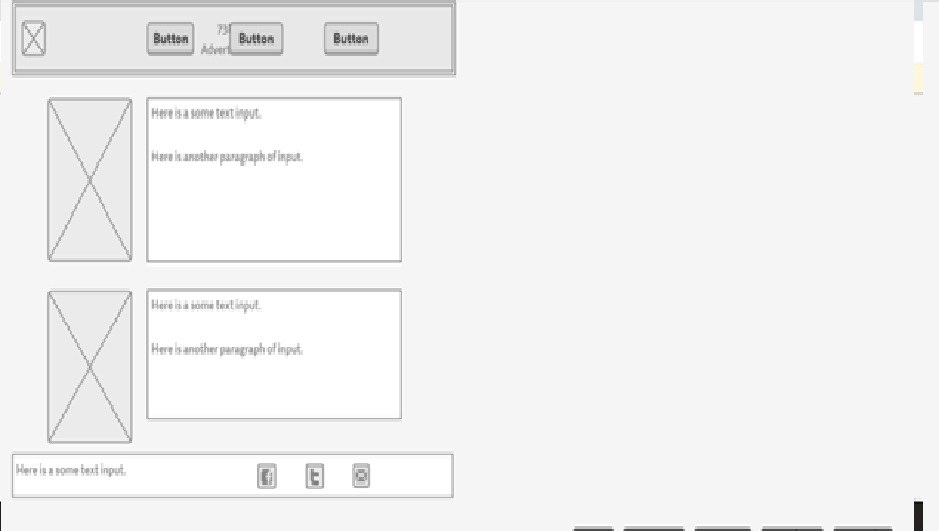
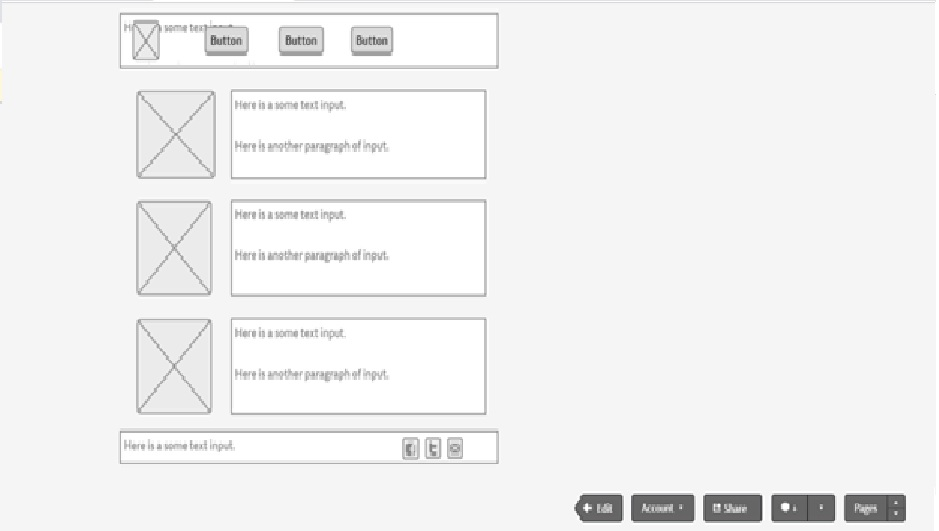
changes to site plan html

diff --git a/site-plan.html b/site-plan.html
@@ -128,7 +128,13 @@
       <h2>
         Content
       </h2>
-      <h3>Plumbing Repairs Are Simple Repairs</h3>
+      <h2>Plumbing Repairs Are Simple Repairs</h2>
+
+      <h3>Sample images for the Home page</h3>    
+      <img class="imageOne" src="images/plumbing-leaky-faucets.jpg" />
+      <img class="imageTwo" src="images/waterheater-cutaway.jpg" /> 
+
+      <h3>Home Page Sample Paragraph</h3>        
       <p>
         Too often we shy away from simple and straight-forward plumbing repairs because of past bad experiences, or terrible advice from the "expert" at the local hardware store.
         We are quick to opt out choosing to pay the extremely high plumber repair price for a job that took less than a half hour to complete.
@@ -141,16 +147,14 @@
         a thousand dollars ($1000) they are a huge expense, but with periodic maintenance and learning some tricks that heater can last many years beyond its warranty. 
         On page three (3) I will share some simple tips how to help that heater last. 
       </p>
-      <p>Images for the Home page</p>        
-        
-
+      <h2>Faucet Repair</h2>   
+            
+      <h3>Sample images for page 2</h3>
+      <img src="images/faucet-components.jpg" alt="faucet view">       
+      <img src="images/all-parts.jpg" alt="cartridges">
+      <img src="images/working-faucet.jpg" alt="good faucet">
       
-      <h3>Faucet Repair</h3>    
-        
-        
-      <p>Images for Home page</p>
-        <img src="images/dripping-faucet.jpg" alt="dripping faucet">       
-        
+      <h3>Page 2 Sample Paragraph</h3>
       <p> Anyone can repair a faucet. There are Just a couple of must do's to
         make the repair go much easier. Before getting started know what brand
         faucet you have. If you don't know then take lots of pictures to use
@@ -174,9 +178,14 @@
         pliers and while using a wiggling motion pull until it come out. Take
         the cartridge with you to purchase a replacement. There are some that
         look similar BUT will not interchange.</p>
-
+        
+        <h2>Water Heater Maintenance</h2> 
+        
+        <h3>Sample images for Page 3</h3>
         <img src="images/heater-sediment.jpg" alt="sediment buildup">
-      <p>
+        <img class="image002" src="images/anode-rod.jpg" />
+        <h3> Page 3 Sample Paragraph</h3>
+          <p>
         There aren't a lot of parts that can be maintained on a water heater,
         but the few that can be are vital to the health of your waterheater.
         Did you know that water is the number one culprit that damages a water
@@ -207,7 +216,6 @@
         different setting on a control valve, Hot, Hotter and Very Hot. dial
         it between the Hot and Hotter settings.
       </p>
-      <p>Images for Page 3</p>
        
 
       </ul>
@@ -222,6 +230,7 @@
       <p>         
         photos, tricks and tips shown and explained on why water heater maintenance is vital to the heaters performance.
       </p>
+      <h3>Home wireframe</h3>
       <img src="images/home-pg-wireframe.jpg" alt="home page wireframe">
 
       <h3>Faucet Repair</h3>
@@ -239,15 +248,16 @@
         following paragraph explains why changing out anode rods is good practice.     
         
       </p>
-      <img src="images/all-parts.jpg" alt="page 3 wireframe">
       <h3>Page 3 Wireframe</h3>
 
-    <img src="images/pg3-wireframe.jpg"/>
+    <img src="images/pg3-wireframe.jpg" alt="page 3 wireframe">
     </main>
     <footer>
-      <h3>Plumb'd Crazy & copy- 2022</h3>
+      <h3>Plumb'd Crazy & copy - 2022  Timothy Lee</h3>
+      
+      </nav>
       <h3><a href="site-plan.html">Site Plan</a></h3>
-      <h3><a href="contact_us.html">Contact us</a></h3>
+     
       <div class="social">
         <a href="https://facebook.com" target="_blank">
           <img src="images/facebook.png" alt="fb icon" />

diff --git a/page3.html b/page3.html
@@ -87,21 +87,22 @@
             only needs to be changed out every three to five years. I would
             check it every year. Chances are that after one year the rod will
             need to be replaced. and $30 anode rod is much cheaper to buy and
-            replace then a $900 waterheater. To replace the Anode rod, you will
-            first need to locate it. Many screw in from the top some from the
-            sides and some brands have them build into the water inlet.loof for
-            a pentagon nut that is the anode rod. The heater will need to be
-            shut off and drained about a quarter of the way. then the rod will
-            unscrew. keep in mind that they are usually 2 feet to 4 feet in
+            replace than a $900 waterheater. To replace the Anode rod, you will
+            first need to locate it. Many screw in from the top, some from the
+            sides, and some brands have them build into the cold water inlet. L
+            ook for a pentagon nut that is the anode rod. The heater will need
+            to be shut off and drained about a quarter of the way. then the rod
+            will unscrew. keep in mind that they are usually 2 feet to 4 feet in
             length. So be sure to have clearance room.
           </p>
         </div>
       </section>
     </section>
     <footer>
-      <h3>Plumb'd Crazy & copy- 2022</h3>
-      <h3><a href="site-plan.html">Site Plan</a></h3>
-      <h3><a href="contact_us.html">Contact us</a></h3>
+      <h3>Plumb'd Crazy & copy - 2022 Timothy Lee</h3>
+      <nav>
+        <a href="site-plan.html">Site Plan</a>
+      </nav>
       <div class="social">
         <a href="https://facebook.com" target="_blank">
           <img src="images/facebook.png" alt="fb icon" />

diff --git a/index.html b/index.html
@@ -55,9 +55,11 @@
       </section>
     </section>
     <footer>
-      <h3>Plumb'd Crazy & copy- 2022</h3>
-      <h3><a href="site-plan.html">Site Plan</a></h3>
-      <h3><a href="contact_us.html">Contact us</a></h3>
+      <h3>Plumb'd Crazy & copy - 2022 Timothy Lee</h3>
+      <nav>
+        <a href="site-plan.html">Site Plan</a>
+      </nav>
+
       <div class="social">
         <a href="https://facebook.com" target="_blank">
           <img src="images/facebook.png" alt="fb icon" />

diff --git a/styles/site-plan.css b/styles/site-plan.css
@@ -36,7 +36,6 @@ body {
   text-align: center;
 }
 img {
-  display: block;
   margin: 0 auto;
   padding-bottom: 40px;
 }
@@ -179,11 +178,12 @@ nav a:hover {
 }
 footer {
   padding: 2em;
+  max-width: 100%;
+  max-height: 50px;
   text-align: center;
+  align-items: center;
   color: var(--paragraph-color-on-color);
   background-color: var(--paragraph-background-color);
   display: flex;
-  padding-top: 20px;
-  max-height: 50px;
-  max-width: 100%;
+  padding-top: 25px;
 }

diff --git a/page2.html b/page2.html
@@ -91,9 +91,10 @@
     </section>
   </body>
   <footer>
-    <h3>Plumb'd Crazy & copy- 2022</h3>
-    <h3><a href="site-plan.html">Site Plan</a></h3>
-    <h3><a href="contact_us.html">Contact us</a></h3>
+    <h3>Plumb'd Crazy & copy - 2022 Timothy Lee</h3>
+    <nav>
+      <a href="site-plan.html">Site Plan</a>
+    </nav>
     <div class="social">
       <a href="https://facebook.com" target="_blank">
         <img src="images/facebook.png" alt="fb icon" />

diff --git a/styles/index.css b/styles/index.css
@@ -28,3 +28,6 @@ img.imageTwo {
   width: 8%;
   float: left;
 }
+.social a {
+  display: inline;
+}
